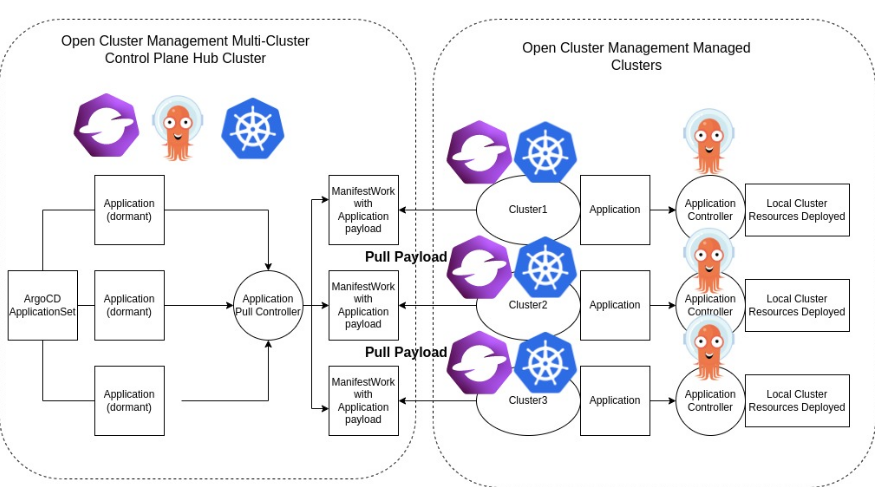
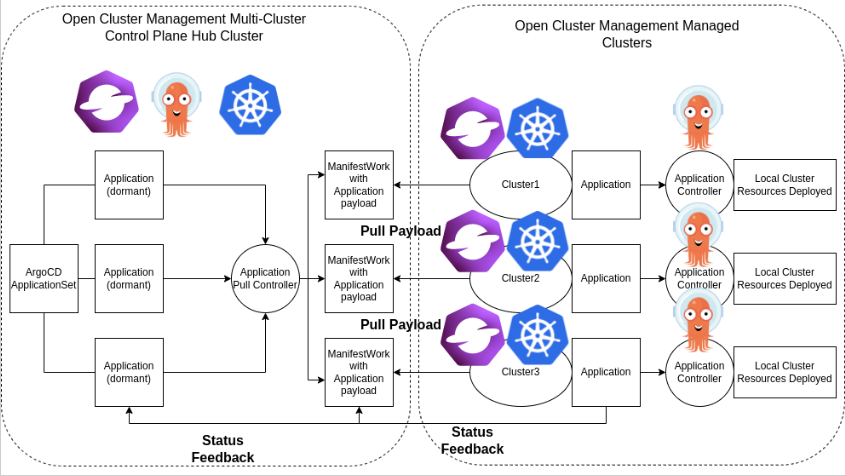
Add status controller to sync manifestwork status feedback back to hub Application status

diff --git a/controllers/application/application_status_controller.go b/controllers/application/application_status_controller.go
@@ -1,0 +1,137 @@
+/*
+Copyright 2023.
+
+Licensed under the Apache License, Version 2.0 (the "License");
+you may not use this file except in compliance with the License.
+You may obtain a copy of the License at
+
+    http://www.apache.org/licenses/LICENSE-2.0
+
+Unless required by applicationlicable law or agreed to in writing, software
+distributed under the License is distributed on an "AS IS" BASIS,
+WITHOUT WARRANTIES OR CONDITIONS OF ANY KIND, either express or implied.
+See the License for the specific language governing permissions and
+limitations under the License.
+*/
+
+package application
+
+import (
+	"context"
+	"fmt"
+
+	"k8s.io/apimachinery/pkg/runtime"
+	"k8s.io/apimachinery/pkg/types"
+	ctrl "sigs.k8s.io/controller-runtime"
+	"sigs.k8s.io/controller-runtime/pkg/client"
+	"sigs.k8s.io/controller-runtime/pkg/event"
+	"sigs.k8s.io/controller-runtime/pkg/log"
+	"sigs.k8s.io/controller-runtime/pkg/predicate"
+
+	argov1alpha1 "github.com/argoproj/argo-cd/v2/pkg/apis/application/v1alpha1"
+	"github.com/argoproj/gitops-engine/pkg/health"
+	workv1 "open-cluster-management.io/api/work/v1"
+)
+
+// ApplicationStatusReconciler reconciles a Application object
+type ApplicationStatusReconciler struct {
+	client.Client
+	Scheme *runtime.Scheme
+}
+
+//+kubebuilder:rbac:groups=argoproj.io,resources=applications,verbs=get;list;watch;update;patch
+//+kubebuilder:rbac:groups=work.open-cluster-management.io,resources=manifestworks,verbs=get;list;watch
+
+// ManifestWorkPredicateFunctions defines which ManifestWork this controller should watch
+var ManifestWorkPredicateFunctions = predicate.Funcs{
+	UpdateFunc: func(e event.UpdateEvent) bool {
+		newManifestWork := e.ObjectNew.(*workv1.ManifestWork)
+		return containsValidManifestWorkHubApplicationAnnotations(*newManifestWork)
+
+	},
+	CreateFunc: func(e event.CreateEvent) bool {
+		manifestWork := e.Object.(*workv1.ManifestWork)
+		return containsValidManifestWorkHubApplicationAnnotations(*manifestWork)
+	},
+
+	DeleteFunc: func(e event.DeleteEvent) bool {
+		return false
+	},
+}
+
+// SetupWithManager sets up the controller with the Manager.
+func (re *ApplicationStatusReconciler) SetupWithManager(mgr ctrl.Manager) error {
+	return ctrl.NewControllerManagedBy(mgr).
+		For(&workv1.ManifestWork{}).
+		WithEventFilter(ManifestWorkPredicateFunctions).
+		Complete(re)
+}
+
+// Reconcile populates the Application status based on the associated ManifestWork's status feedback
+func (r *ApplicationStatusReconciler) Reconcile(ctx context.Context, req ctrl.Request) (ctrl.Result, error) {
+	log := log.FromContext(ctx)
+	log.Info("reconciling Application for status update..")
+	defer log.Info("done reconciling Application for status update")
+
+	var manifestWork workv1.ManifestWork
+	if err := r.Get(ctx, req.NamespacedName, &manifestWork); err != nil {
+		log.Error(err, "unable to fetch ManifestWork")
+		return ctrl.Result{}, client.IgnoreNotFound(err)
+	}
+
+	if manifestWork.ObjectMeta.DeletionTimestamp != nil {
+		return ctrl.Result{}, nil
+	}
+
+	resourceManifests := manifestWork.Status.ResourceStatus.Manifests
+
+	healthStatus := ""
+	syncStatus := ""
+	if len(resourceManifests) > 0 {
+		statusFeedbacks := resourceManifests[0].StatusFeedbacks.Values
+		if len(statusFeedbacks) > 0 {
+			for _, statusFeedback := range statusFeedbacks {
+				if statusFeedback.Name == "healthStatus" {
+					healthStatus = *statusFeedback.Value.String
+				}
+				if statusFeedback.Name == "syncStatus" {
+					syncStatus = *statusFeedback.Value.String
+				}
+			}
+		}
+	}
+
+	if len(healthStatus) == 0 || len(syncStatus) == 0 {
+		log.Info("healthStatus and syncStatus are both not in ManifestWork status feedback yet")
+		return ctrl.Result{}, nil
+	}
+
+	applicationNamespace := manifestWork.Annotations[AnnotationKeyHubApplicationNamespace]
+	applicationName := manifestWork.Annotations[AnnotationKeyHubApplicationName]
+
+	application := argov1alpha1.Application{}
+	if err := r.Get(ctx, types.NamespacedName{Namespace: applicationNamespace, Name: applicationName}, &application); err != nil {
+		log.Error(err, "unable to fetch Application")
+		return ctrl.Result{}, err
+	}
+
+	application.Status.Sync.Status = argov1alpha1.SyncStatusCode(syncStatus)
+	application.Status.Health.Status = health.HealthStatusCode(healthStatus)
+	log.Info("updating Application status with ManifestWork status feedbacks")
+
+	appSetName := getAppSetOwnerName(application)
+	if appSetName != "" && len(application.Status.Conditions) == 0 {
+		application.Status.Conditions = []argov1alpha1.ApplicationCondition{{
+			Type:    "AdditionalStatusReport",
+			Message: fmt.Sprintf("kubectl get multiclusterapplicationsetreports -n %s %s", application.Namespace, appSetName),
+		}}
+	}
+
+	err := r.Client.Update(ctx, &application)
+	if err != nil {
+		log.Error(err, "unable to update Application")
+		return ctrl.Result{}, err
+	}
+
+	return ctrl.Result{}, nil
+}

diff --git a/controllers/application/helper_test.go b/controllers/application/helper_test.go
@@ -22,6 +22,7 @@ import (
 
 	argov1alpha1 "github.com/argoproj/argo-cd/v2/pkg/apis/application/v1alpha1"
 	v1 "k8s.io/apimachinery/pkg/apis/meta/v1"
+	workv1 "open-cluster-management.io/api/work/v1"
 )
 
 func Test_containsValidPullLabel(t *testing.T) {
@@ -159,6 +160,86 @@ func Test_containsValidPullAnnotation(t *testing.T) {
 		t.Run(tt.name, func(t *testing.T) {
 			if got := containsValidPullAnnotation(tt.args.application); got != tt.want {
 				t.Errorf("containsValidPullAnnotation() = %v, want %v", got, tt.want)
+			}
+		})
+	}
+}
+
+func Test_containsValidManifestWorkHubApplicationAnnotations(t *testing.T) {
+	type args struct {
+		manifestWork workv1.ManifestWork
+	}
+	tests := []struct {
+		name string
+		args args
+		want bool
+	}{
+		{
+			name: "valid application annotations",
+			args: args{
+				workv1.ManifestWork{
+					ObjectMeta: v1.ObjectMeta{
+						Annotations: map[string]string{
+							AnnotationKeyHubApplicationNamespace: "namespace1",
+							AnnotationKeyHubApplicationName:      "app-name1",
+						},
+					},
+				},
+			},
+			want: true,
+		},
+		{
+			name: "missing application namespace annotation",
+			args: args{
+				workv1.ManifestWork{
+					ObjectMeta: v1.ObjectMeta{
+						Annotations: map[string]string{
+							AnnotationKeyHubApplicationName: "app-name1",
+						},
+					},
+				},
+			},
+			want: false,
+		},
+		{
+			name: "missing application name annotation",
+			args: args{
+				workv1.ManifestWork{
+					ObjectMeta: v1.ObjectMeta{
+						Annotations: map[string]string{
+							AnnotationKeyHubApplicationNamespace: "namespace1",
+						},
+					},
+				},
+			},
+			want: false,
+		},
+		{
+			name: "empty value",
+			args: args{
+				workv1.ManifestWork{
+					ObjectMeta: v1.ObjectMeta{
+						Annotations: map[string]string{
+							AnnotationKeyHubApplicationNamespace: "",
+							AnnotationKeyHubApplicationName:      "",
+						},
+					},
+				},
+			},
+			want: false,
+		},
+		{
+			name: "no application annotation",
+			args: args{
+				workv1.ManifestWork{},
+			},
+			want: false,
+		},
+	}
+	for _, tt := range tests {
+		t.Run(tt.name, func(t *testing.T) {
+			if got := containsValidManifestWorkHubApplicationAnnotations(tt.args.manifestWork); got != tt.want {
+				t.Errorf("containsValidManifestWorkHubApplicationAnnotations() = %v, want %v", got, tt.want)
 			}
 		})
 	}
@@ -349,7 +430,11 @@ func Test_generateManifestWork(t *testing.T) {
 			},
 			want: results{
 				workLabel: map[string]string{LabelKeyAppSet: "true"},
-				workAnno:  map[string]string{AnnotationKeyAppSet: "argocd/appset1"},
+				workAnno: map[string]string{
+					AnnotationKeyAppSet:                  "argocd/appset1",
+					AnnotationKeyHubApplicationNamespace: "argocd",
+					AnnotationKeyHubApplicationName:      "app1",
+				},
 			},
 		},
 	}

diff --git a/controllers/application/helper.go b/controllers/application/helper.go
@@ -55,6 +55,18 @@ func containsValidPullAnnotation(application argov1alpha1.Application) bool {
 	return ok && len(managedClusterName) > 0
 }
 
+func containsValidManifestWorkHubApplicationAnnotations(manifestWork workv1.ManifestWork) bool {
+	annos := manifestWork.GetAnnotations()
+	if len(annos) == 0 {
+		return false
+	}
+
+	namespace, ok := annos[AnnotationKeyHubApplicationNamespace]
+	name, ok2 := annos[AnnotationKeyHubApplicationName]
+
+	return ok && ok2 && len(namespace) > 0 && len(name) > 0
+}
+
 // generateAppNamespace returns the intended namespace for the Application in the following priority
 // 1) Annotation specified custom namespace
 // 2) Application's namespace value
@@ -152,12 +164,16 @@ func prepareApplicationForWorkPayload(application argov1alpha1.Application) argo
 // If the Application is generated from an ApplicationSet, custom label and annotation are inserted.
 func generateManifestWork(name, namespace string, application argov1alpha1.Application) *workv1.ManifestWork {
 	var workLabels map[string]string
-	var workAnnos map[string]string
+
+	workAnnos := map[string]string{
+		AnnotationKeyHubApplicationNamespace: application.Namespace,
+		AnnotationKeyHubApplicationName:      application.Name,
+	}
 
 	appSetOwnerName := getAppSetOwnerName(application)
 	if appSetOwnerName != "" {
 		workLabels = map[string]string{LabelKeyAppSet: strconv.FormatBool(true)}
-		workAnnos = map[string]string{AnnotationKeyAppSet: application.Namespace + "/" + appSetOwnerName}
+		workAnnos[AnnotationKeyAppSet] = application.Namespace + "/" + appSetOwnerName
 	}
 
 	application = prepareApplicationForWorkPayload(application)
@@ -186,6 +202,7 @@ func generateManifestWork(name, namespace string, application argov1alpha1.Appli
 						{Type: workv1.JSONPathsType, JsonPaths: []workv1.JsonPath{{Name: "healthStatus", Path: ".status.health.status"}}},
 						{Type: workv1.JSONPathsType, JsonPaths: []workv1.JsonPath{{Name: "syncStatus", Path: ".status.sync.status"}}},
 					},
+					UpdateStrategy: &workv1.UpdateStrategy{Type: workv1.UpdateStrategyTypeUpdate},
 				},
 			},
 		},

diff --git a/controllers/application/application_controller.go b/controllers/application/application_controller.go
@@ -42,6 +42,10 @@ const (
 	AnnotationKeyAppSet = "apps.open-cluster-management.io/hosting-applicationset"
 	// Application annotation that enables the skip reconcilation of an application
 	AnnotationKeyAppSkipReconcile = "argocd.argoproj.io/skip-reconcile"
+	// ManifestWork annotation that shows the namespace of the hub Application.
+	AnnotationKeyHubApplicationNamespace = "apps.open-cluster-management.io/hub-application-namespace"
+	// ManifestWork annotation that shows the name of the hub Application.
+	AnnotationKeyHubApplicationName = "apps.open-cluster-management.io/hub-application-name"
 	// Application and ManifestWork label that shows that ApplicationSet is the grand parent of this work
 	LabelKeyAppSet = "apps.open-cluster-management.io/application-set"
 	// Application label that enables the pull controller to wrap the Application in ManifestWork payload

diff --git a/main.go b/main.go
@@ -98,6 +98,14 @@ func main() {
 		os.Exit(1)
 	}
 
+	if err = (&application.ApplicationStatusReconciler{
+		Client: mgr.GetClient(),
+		Scheme: mgr.GetScheme(),
+	}).SetupWithManager(mgr); err != nil {
+		setupLog.Error(err, "unable to create application status controller", "application status controller", "Application")
+		os.Exit(1)
+	}
+
 	if err := mgr.AddHealthzCheck("healthz", healthz.Ping); err != nil {
 		setupLog.Error(err, "unable to set up health check")
 		os.Exit(1)

diff --git a/README.md b/README.md
@@ -55,11 +55,14 @@ make run
 ...
 INFO	controller.application	Starting EventSource	{"reconciler group": "argoproj.io", "reconciler kind": "Application", "source": "kind source: *v1alpha1.Application"}
 INFO	controller.application	Starting Controller	{"reconciler group": "argoproj.io", "reconciler kind": "Application"}
+INFO	controller.manifestwork	Starting EventSource	{"reconciler group": "work.open-cluster-management.io", "reconciler kind": "ManifestWork", "source": "kind source: *v1.ManifestWork"}
+INFO	controller.manifestwork	Starting Controller	{"reconciler group": "work.open-cluster-management.io", "reconciler kind": "ManifestWork"}
 INFO	controller.application	Starting workers	{"reconciler group": "argoproj.io", "reconciler kind": "Application", "worker count": 1}
+INFO	controller.manifestwork	Starting workers	{"reconciler group": "work.open-cluster-management.io", "reconciler kind": "ManifestWork", "worker count": 1}
 ...
 ```
 
-6. On the Hub cluster, create an ArgoCD cluster secret that represent the managed cluster. This step can be automated with [OCM auto import controller](https://github.com/open-cluster-management-io/multicloud-integrations/tree/enable-pull-model-import).
+6. On the Hub cluster, create an ArgoCD cluster secret that represent the managed cluster. This step can be automated with [OCM auto import controller](https://github.com/open-cluster-management-io/multicloud-integrations/).
 **Note** replace the `cluster-name` with the registered managed cluster name.
 ```
 cat <<EOF | kubectl apply -f -
@@ -126,10 +129,17 @@ cluster1-guestbook-app-d0e5   2m41s
 ```
 $ kubectl -n argocd get app
 NAME                     SYNC STATUS   HEALTH STATUS
-cluster2-guestbook-app   Synced        Healthy
+cluster1-guestbook-app   Synced        Healthy
 $ kubectl -n guestbook get deploy
 NAME           READY   UP-TO-DATE   AVAILABLE   AGE
 guestbook-ui   1/1     1            1           7m36s
+```
+
+13. On the Hub cluster, the status controller will sync the dormant Application with the ManifestWork status feedback. For example:
+```
+$ kubectl -n argocd get app
+NAME                     SYNC STATUS   HEALTH STATUS
+cluster1-guestbook-app   Synced        Healthy
 ```
 
 ## Community, discussion, contribution, and support
